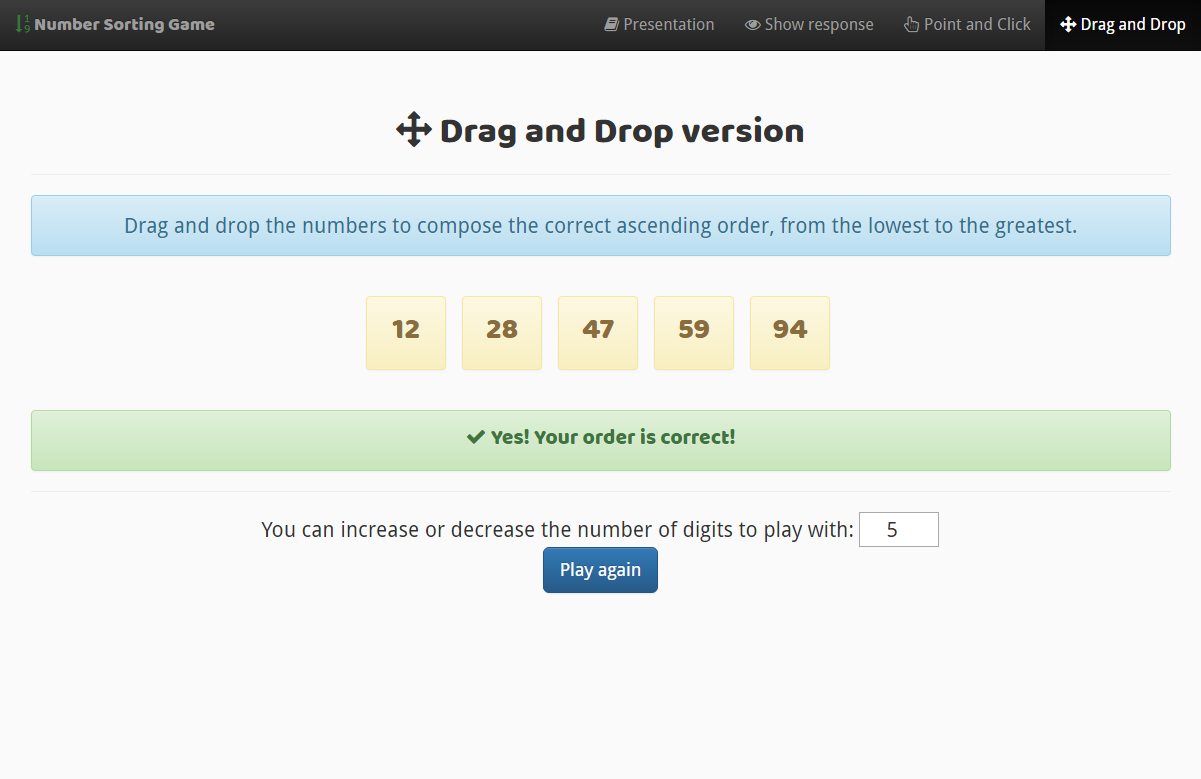
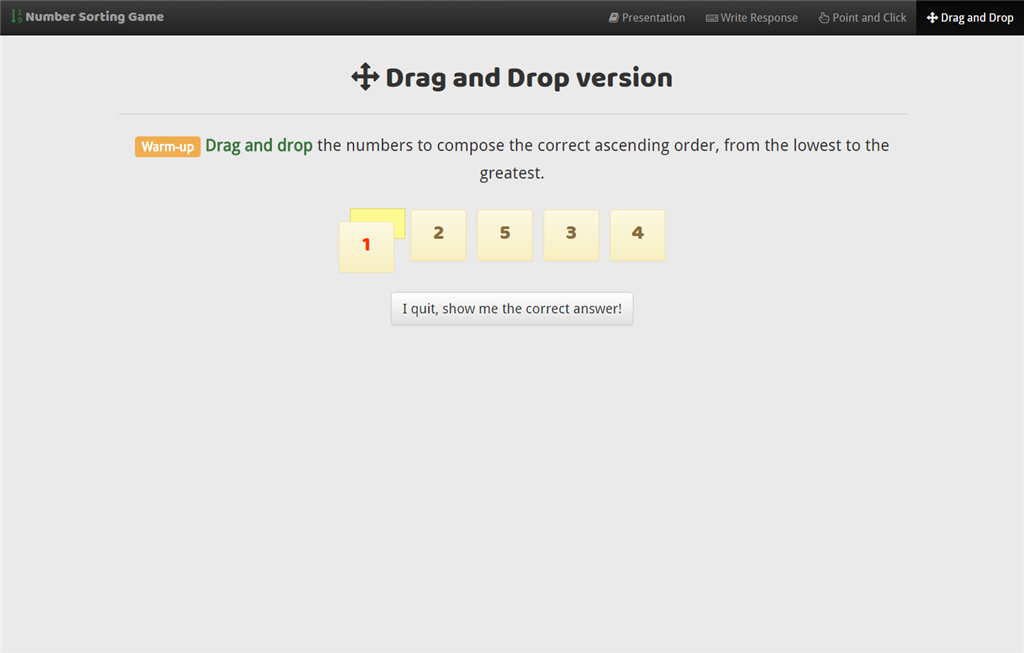
Improvements but performance issue

diff --git a/point-and-click.html b/point-and-click.html
@@ -43,7 +43,11 @@
         <div class="page-header">
             <h1><i class="fa fa-hand-pointer-o" aria-hidden="true"></i> Point and Click version</h1>
         </div>
-        <p class="highlight"><strong class="important">Click on the numbers</strong> in the correct ascending order, from the lowest to the greatest.</p>
+        <p class="highlight">
+            <span class="label label-warning" v-if="warmUp">Warm-up</span>
+            <strong class="important">Click on the numbers</strong> in the correct ascending order, from the lowest to the
+            greatest.
+        </p>
         <ul class="list-unstyled lead list-inline" id="listNumbers">
             <li v-for="n in numbersToOrder">
                 <button class="btn btn-lg btn-game alert alert-warning" @click="addNumber">
@@ -51,6 +55,9 @@
                 </button>
             </li>
         </ul>
+        <div v-if="!showResponse">
+            <button class="btn btn-default btn-lg" @click="feedback">I quit, show me the correct answer!</button>
+        </div>
         <h3>Your answer</h3>
         <ul class="list-unstyled lead list-inline" id="listAnswers">
             <li v-for="n in replyNumbers">
@@ -59,31 +66,30 @@
                 </h2>
             </li>
         </ul>
-        <transition name="fade">
-            <div v-if="showResponse">
-                <div v-if="isRight">
-                    <h2 class="alert alert-success lead text-center">
-                        <i class="fa fa-check"></i> Yes! Your order is correct!
-                    </h2>
-                </div>
-                <div v-if="!isRight">
-                    <h2 class="alert alert-danger lead text-center">
-                        <i class="fa fa-times"></i> I am sorry, your order is not correct!
-                    </h2>
-                    <h3 class="text-info">Here you can see the correct order</h3>
-                    <ul class="list-unstyled lead list-inline" id="listSolution">
-                        <li v-for="s in correctAnswer">
-                            <h2 class="btn-game alert alert-info">
-                                <animated-integer v-bind:value="s"></animated-integer>
-                            </h2>
-                        </li>
-                    </ul>
-                </div>
-                <hr>
-                <play-again v-bind:numbers="howMany" v-bind:min="min" v-bind:max="max" v-on:play="playAgain"></play-again>
+        <div v-if="showResponse">
+            <div v-if="isRight && showFeedback">
+                <h2 class="alert alert-success lead text-center">
+                    <i class="fa fa-check"></i> Yes! Your order is correct!
+                </h2>
             </div>
-
-        </transition>
+            <div v-if="!isRight && showFeedback">
+                <h2 class="alert alert-danger lead text-center">
+                    <i class="fa fa-times"></i> I am sorry, your order is not correct!
+                </h2>
+            </div>
+            <h3 class="text-info">Here you can see the correct order</h3>
+            <ul class="list-unstyled lead list-inline" id="listSolution">
+                <li v-for="s in correctAnswer">
+                    <h2 class="btn-game alert alert-info">
+                        <animated-integer v-bind:value="s"></animated-integer>
+                    </h2>
+                </li>
+            </ul>
+            <hr>
+            <div class="lead text text-info" v-if="warmUp"><i class="fa fa-info-circle text-info"></i> You can adapt the difficulty of your next game by changing the values.
+            </div>
+            <play-again v-bind:numbers="howMany" v-bind:min="min" v-bind:max="max" v-on:play="playAgain"></play-again>
+        </div>
     </div>
 
     <script src="./node_modules/jquery/dist/jquery.min.js"></script>

diff --git a/write-response.html b/write-response.html
@@ -43,8 +43,9 @@
         <div class="page-header">
             <h1><i class="fa fa-keyboard-o" aria-hidden="true"></i> Write Response version</h1>
         </div>
-        <p class="highlight"><span class="important">Write the numbers</span> in the correct ascending order separated by a <kbd>space</kbd> and
-            press <kbd>enter</kbd> or one of the button below when your are done!</p>
+        <p class="highlight">
+            <span class="label label-warning" v-if="warmUp">Warm-up</span>
+            <span class="important">Write the numbers</span> in the correct ascending order separated by a <kbd>space</kbd>            and press <kbd>enter</kbd> or one of the button below when your are done!</p>
         <ul class="list-unstyled lead list-inline" id="listNumbers">
             <li v-for="n in numbersToOrder" class="alert btn-game" v-bind:class="itemClass(n)">
                 <animated-integer v-bind:value="n"></animated-integer>
@@ -62,23 +63,23 @@
             </div>
             <ul class="list-unstyled list-inline" v-if="!showResponse">
                 <li>
-                    <button type="submit" class="btn btn-primary">Check your answer</button>
+                    <button type="submit" class="btn btn-primary btn-lg">Check your answer</button>
                 </li>
                 <li>
-                    <button class="btn btn-default" v-on:click="show">I quit, show my the answer</button>
+                    <button class="btn btn-default btn-lg" v-on:click="feedback">I quit, show my the answer</button>
                 </li>
             </ul>
         </form>
 
         <transition name="fade">
             <div v-if="showResponse">
-                <div v-if="isRight">
+                <div v-if="isRight && showFeedback">
                     <h2 class="alert alert-success lead text-center">
                         <i class="fa fa-check"></i> Yes! Your order is correct!
                     </h2>
                 </div>
-                <div v-if="!isRight">
-                    <h2 class="alert alert-danger lead text-center">
+                <div>
+                    <h2 class="alert alert-danger lead text-center" v-if="!isRight && showFeedback">
                         <i class="fa fa-times"></i> I am sorry, your order is not correct!
                     </h2>
                     <h3 class="text-info">Here you can see the correct order</h3>
@@ -89,6 +90,9 @@
                     </ul>
                 </div>
                 <hr>
+                <div class="lead text text-info" v-if="warmUp"><i class="fa fa-info-circle text-info"></i> You can adapt the difficulty of your next game by changing the
+                    values.
+                </div>
                 <play-again v-bind:numbers="howMany" v-bind:min="min" v-bind:max="max" v-on:play="playAgain"></play-again>
             </div>
 
@@ -100,7 +104,7 @@
     <script src="./node_modules/vue/dist/vue.min.js"></script>
     <script src="./node_modules/tween.js/src/Tween.js"></script>
     <script src="./js/common.js"></script>
-    <script src="./js/show-response.js"></script>
+    <script src="./js/write-response.js"></script>
 </body>
 
 </html>

diff --git a/js/point-and-click.js b/js/point-and-click.js
@@ -1,7 +1,9 @@
 var appPointAndClick = new Vue({
     el: '#app',
     data: {
+        warmUp: true,
         showResponse: false,
+        showFeedback: false,
         howMany: 5,
         min: 1,
         max: 5,
@@ -24,6 +26,16 @@ var appPointAndClick = new Vue({
         show: function () {
             this.orderedNumbers = getSortedNumbers(this.numbersToOrder);
             this.showResponse = true;
+            this.showFeedback = true;
+        },
+        feedback: function () {
+            this.orderedNumbers = getSortedNumbers(this.numbersToOrder);
+            this.showResponse = true;
+            this.showFeedback = false;
+            $('#listNumbers button')
+                .addClass('btn-game-disabled')
+                .removeClass('alert-warning')
+                .attr('disabled', 'disabled');
         },
         playAgain: function (howMany, min, max) {
             this.howMany = this.min = this.max = 0;
@@ -33,6 +45,8 @@ var appPointAndClick = new Vue({
             this.numbersToOrder = getNumbers(this.howMany, this.min, this.max);
             this.orderedNumbers = getSortedNumbers(this.numbersToOrder);
             this.showResponse = false;
+            this.showFeedback = false;
+            this.warmUp = false;
             this.replyNumbers = [];
             $('#listNumbers button')
                 .removeClass('btn-game-disabled')
@@ -41,12 +55,12 @@ var appPointAndClick = new Vue({
         },
         addNumber: function (event) {
             if (event.target.tagName === 'BUTTON') {
-                this.replyNumbers.push(+event.target.childNodes[0].innerHTML.replace(/\D/g, ''));
+                this.replyNumbers.push(+event.target.childNodes[0].innerHTML.replace(/\D-/g, ''));
                 event.target.disabled = true;
                 event.target.classList.remove('alert-warning');
                 event.target.classList.add('btn-game-disabled');
             } else {
-                this.replyNumbers.push(+event.target.innerHTML.replace(/\D/g, ''));
+                this.replyNumbers.push(+event.target.innerHTML.replace(/\D-/g, ''));
                 event.target.parentNode.disabled = true;
                 event.target.parentNode.classList.remove('alert-warning');
                 event.target.parentNode.classList.add('btn-game-disabled');
@@ -57,6 +71,7 @@ var appPointAndClick = new Vue({
             if (+this.howMany === +this.replyNumbers.length) {
                 this.isRight = compare(this.numbersToOrder, this.replyNumbers);
                 this.showResponse = true;
+                this.showFeedback = true;
             }
         }
     }

diff --git a/drag-and-drop.html b/drag-and-drop.html
@@ -44,15 +44,17 @@
         <div class="page-header">
             <h1><i class="fa fa-arrows" aria-hidden="true"></i> Drag and Drop version</h1>
         </div>
-        <p class="highlight"><strong class="important">Drag and drop</strong> the numbers to compose the correct ascending order, from the lowest
-            to the greatest.</p>
+        <p class="highlight">
+            <span class="label label-warning" v-if="warmUp">Warm-up</span>
+            <strong class="important">Drag and drop</strong> the numbers to compose the correct ascending order, from the
+            lowest to the greatest.</p>
         <ul class="list-unstyled lead list-inline" id="listNumbers">
             <li v-for="n in numbersToOrder" class="alert alert-warning btn-game btn-hover-state">
                 <animated-integer v-bind:value="n"></animated-integer>
             </li>
         </ul>
         <div v-if="!showResponse">
-            <button class="btn btn-danger btn-lg" @click="showFeedback">I quit, show me the correct answer!</button>
+            <button class="btn btn-default btn-lg" @click="showFeedback">I quit, show me the correct answer!</button>
         </div>
         <div v-if="showResponse && isRight">
             <h2 class="alert alert-success lead text-center">
@@ -60,11 +62,19 @@
             </h2>
         </div>
         <div v-if="showResponse && !isRight">
-            <h2 class="alert alert-info">
-                <i class="fa fa-info-circle"></i> The correct answer was {{ correctAnswer }}</h2>
+            <h3 class="text-info">Here you can see the correct order</h3>
+            <ul class="list-unstyled lead list-inline" id="listSolution">
+                <li v-for="s in correctAnswer">
+                    <h2 class="btn-game alert alert-info">
+                        <animated-integer v-bind:value="s"></animated-integer>
+                    </h2>
+                </li>
+            </ul>
         </div>
-        <div v-if="showResponse ">
+        <div v-if="showResponse">
             <hr>
+            <div class="lead text text-info" v-if="warmUp"><i class="fa fa-info-circle text-info"></i> You can adapt the difficulty of your next game by changing the values.
+            </div>
             <play-again v-bind:numbers="howMany" v-bind:min="min" v-bind:max="max" v-on:play="playAgain"></play-again>
         </div>
     </div>

diff --git a/js/write-response.js b/js/write-response.js
@@ -1,7 +1,9 @@
 var appShowResponse = new Vue({
     el: '#app',
     data: {
+        warmUp: true,
         showResponse: false,
+        showFeedback: false,
         howMany: 5,
         min: 1,
         max: 5,
@@ -30,7 +32,7 @@ var appShowResponse = new Vue({
                             return +n;
                         }
                         if (n === formatNumber(n)) {
-                            return Number(n.replace(/\D/g, ''));
+                            return Number(n.replace(/\D-/g, ''));
                         } else {
                             return n;
                         }
@@ -45,6 +47,14 @@ var appShowResponse = new Vue({
             this.orderedNumbers = getSortedNumbers(this.numbersToOrder);
             this.isRight = compare(this.numbersToOrder, this.userOrder);
             this.showResponse = true;
+            this.showFeedback = true;
+            this.warmUp = false;
+        },
+        feedback: function () {
+            this.orderedNumbers = getSortedNumbers(this.numbersToOrder);
+            this.showResponse = true;
+            this.showFeedback = false;
+            this.warmUp = false;
         },
         playAgain: function (howMany, min, max) {
             this.howMany = this.min = this.max = 0;
@@ -54,6 +64,7 @@ var appShowResponse = new Vue({
             this.numbersToOrder = getNumbers(this.howMany, this.min, this.max);
             this.orderedNumbers = getSortedNumbers(this.numbersToOrder);
             this.showResponse = false;
+            this.showFeedback = false;
             this.errors = [];
             this.yourAnswer = '';
             document.getElementById("inputAnswer").focus();

diff --git a/js/drag-and-drop.js b/js/drag-and-drop.js
@@ -1,6 +1,7 @@
 var app = new Vue({
     el: '#app',
     data: {
+        warmUp: true,
         showResponse: false,
         howMany: 5,
         min: 1,
@@ -10,7 +11,7 @@ var app = new Vue({
     },
     computed: {
         correctAnswer: function () {
-            return getSortedNumbers(this.numbersToOrder).join(", ");
+            return getSortedNumbers(this.numbersToOrder);
         },
         numbersToOrder: function () {
             return getNumbers(this.howMany, this.min, this.max);
@@ -29,11 +30,12 @@ var app = new Vue({
             this.numbersToOrder = getNumbers(this.howMany, this.min, this.max);
             this.orderedNumbers = getSortedNumbers(this.numbersToOrder);
             this.showResponse = false;
+            this.warmUp = false;
         },
         checkResponseDragAndDrop: function () {
             var replyNumbers = [];
             $("#listNumbers li").each(function () {
-                replyNumbers.push(+$(this).text().replace(/\D/g, ''));
+                replyNumbers.push(+$(this).text().replace(/\D-/g, ''));
             });
             if (compare(this.numbersToOrder, replyNumbers)) {
                 this.showResponse = true;

diff --git a/js/common.js b/js/common.js
@@ -1,7 +1,4 @@
 function getNumbers(howMany, lowerLimit, upperLimit) {
-    if (!howMany || !lowerLimit || !upperLimit) {
-        return false;
-    }
     var numbersToOrder = [];
     //Get unique random numbers
     while (numbersToOrder.length < howMany) {
